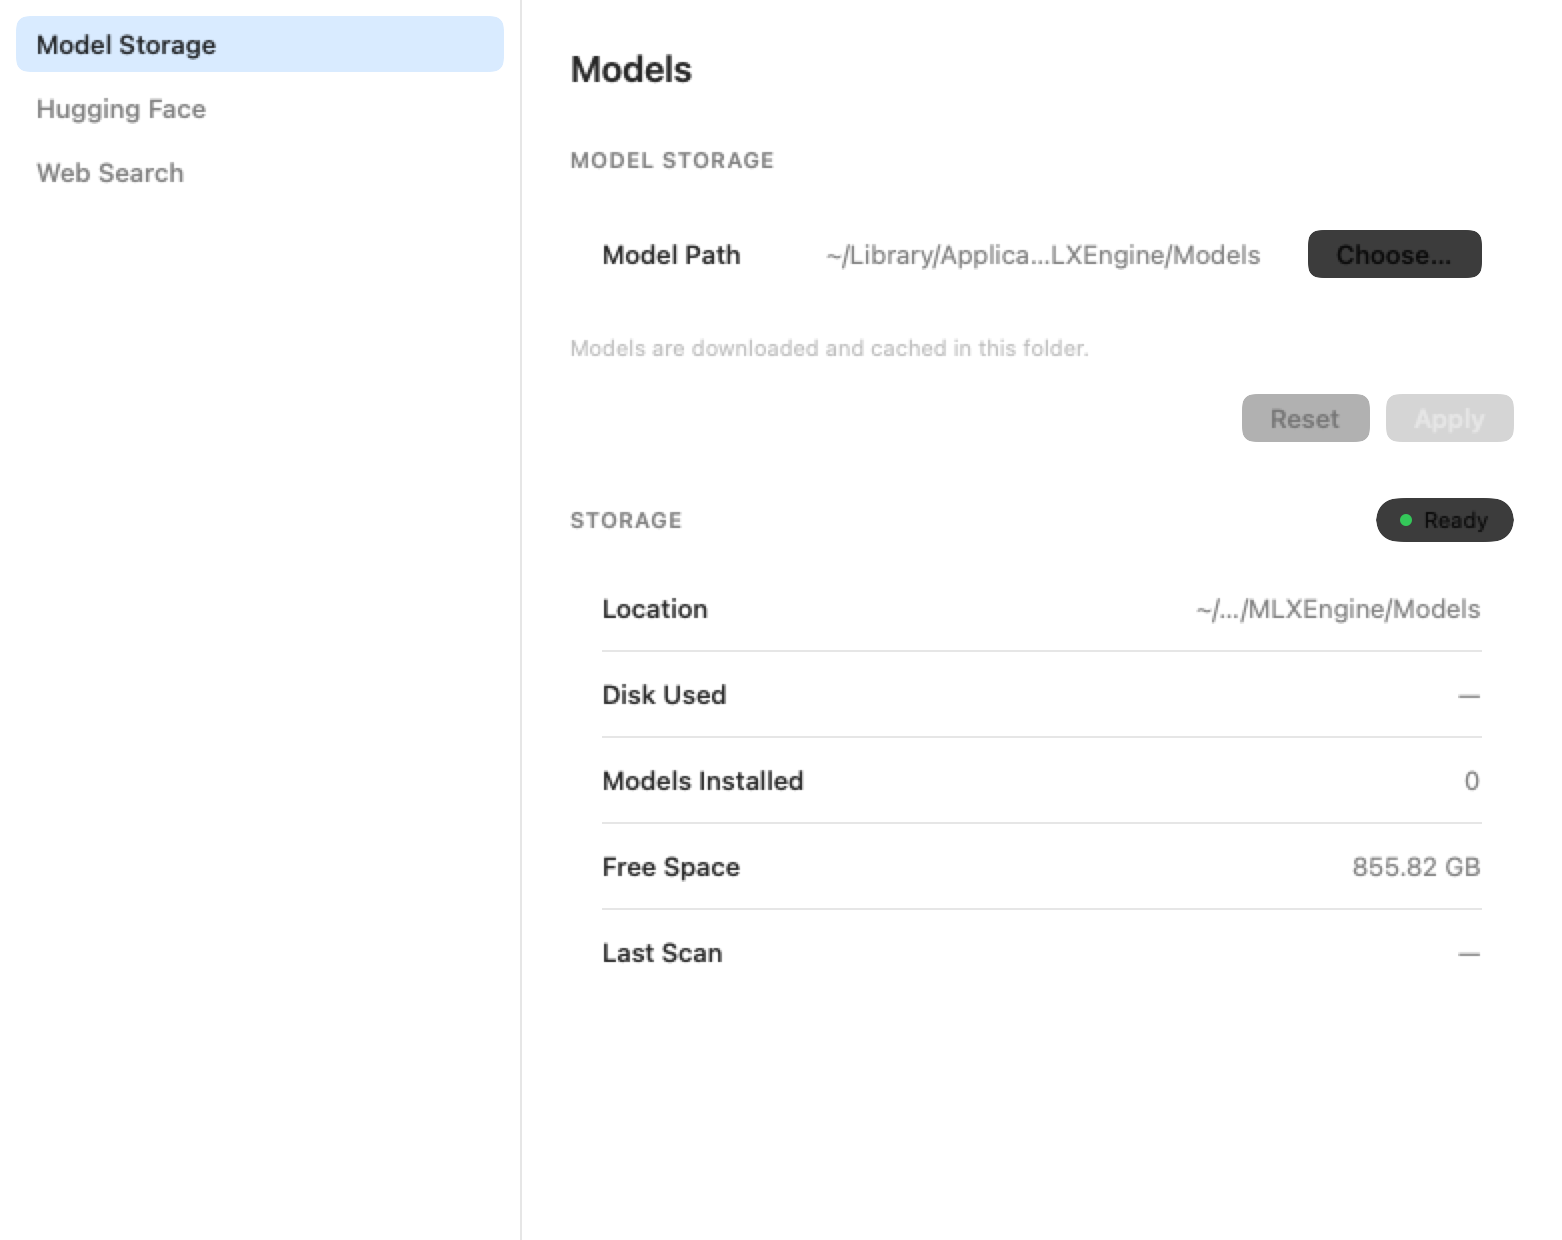
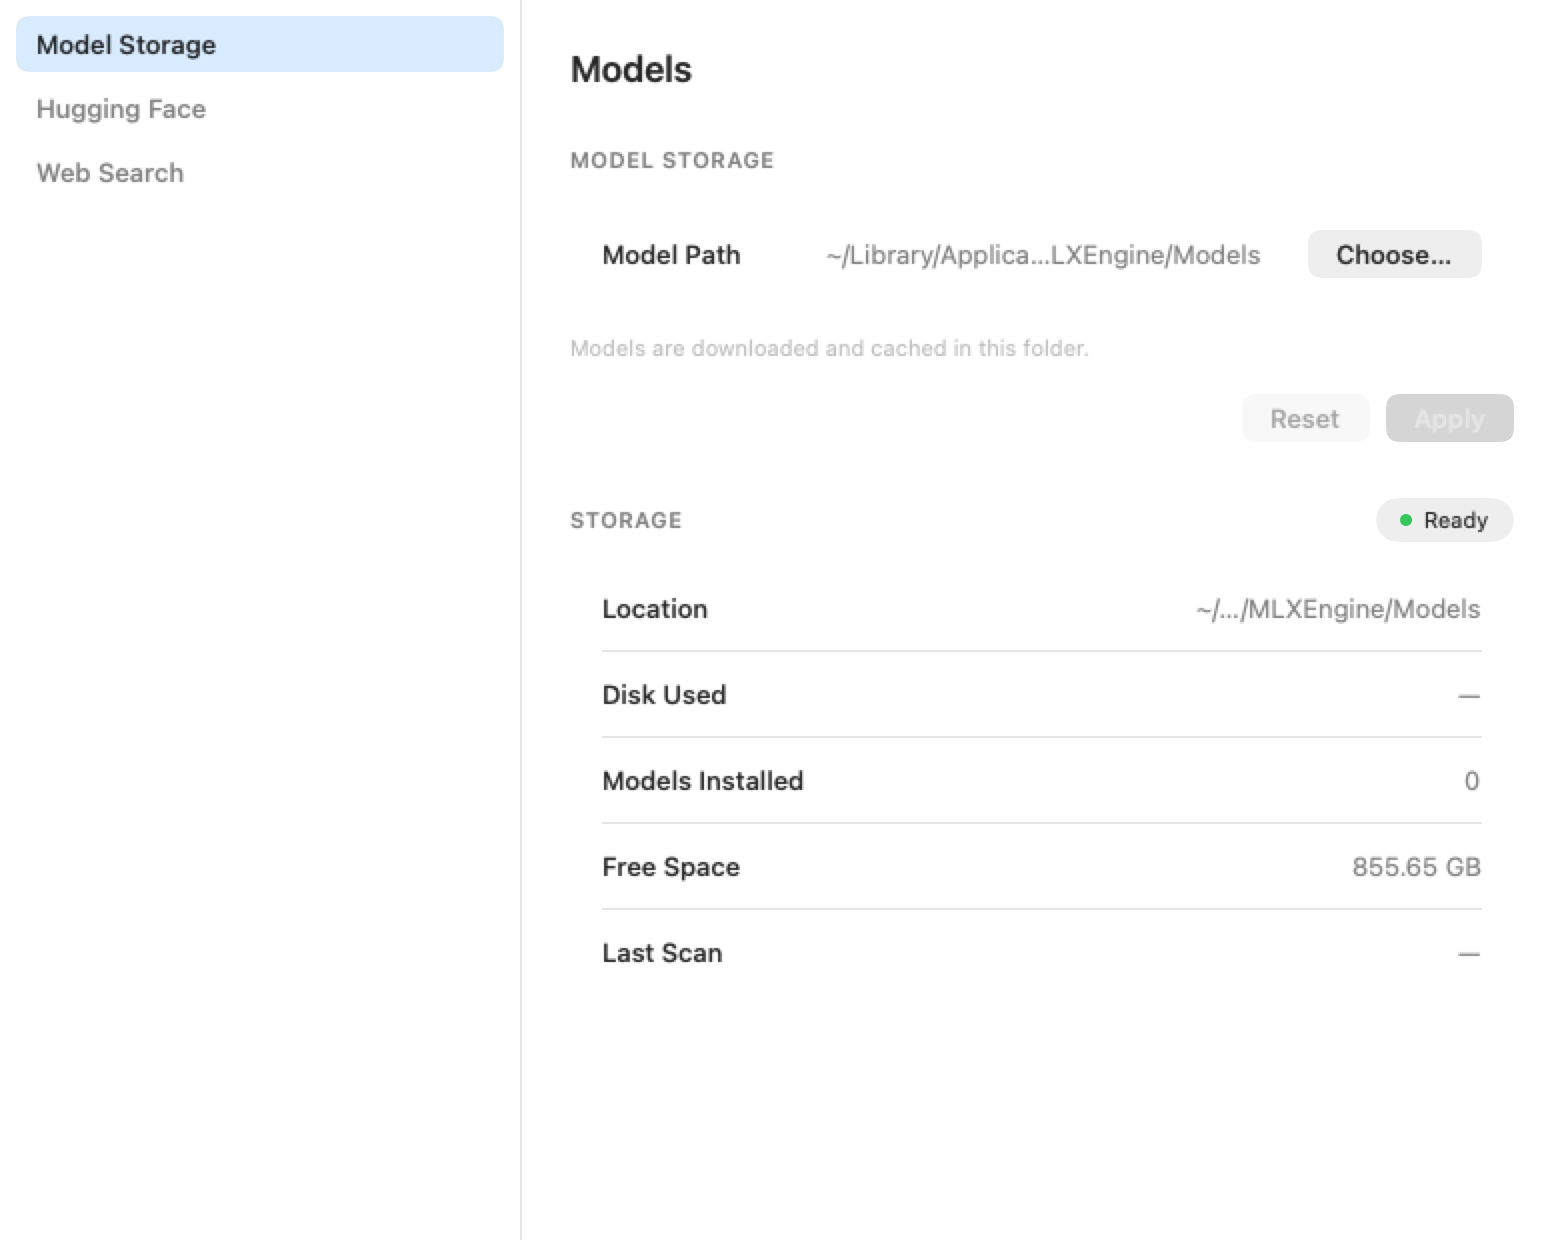
complete the DesignScaffold conformance: fillElevated + panelTitle (0.4.2) — zero literals remain (AB-A-0019)
DesignScaffold 0.4.2 shipped the two tokens gating the tag: fillElevated
(label @ 8% — swatch-chosen against the #3C3C3C it replaces, elevated-by-
construction in both appearances) and panelTitle (18 semibold, added on our
usage evidence). The last five literal references flip:

  2 fill sites (badge capsule, secondary-button fill) -> Tokens.Color.fillElevated
  3 panel headers                                     -> Tokens.Font.panelTitle

MarqueeTokens' pageTitle/bgElevated forwarders now complete too — bgElevated
stays a documented SPLIT symbol (divider uses -> separator, fill uses ->
fillElevated) so migrators pick per site instead of re-creating the conflation.

Only the documented panel-local geometry (panelWidth, settingsMin*) and the
unused brand accentGold remain non-forwarded, by design — the acceptance's
literal criterion is met.

Evidence re-rendered (docs/images/engine-settings-tokens-{light,dark}.png):
light shows a fully coherent adaptive panel — the two dark chips from the
interim render are gone, replaced by the subtle raised fill. Dark remains
the near-parity control.

Contract unchanged (1.37.0) — UI-only. Pin: DesignScaffold from 0.4.2.
Full suite green.

diff --git a/Sources/MLXEngineUI/MarqueeTokens.swift b/Sources/MLXEngineUI/MarqueeTokens.swift
@@ -20,13 +20,8 @@
 //    - `panelWidth` / `settingsMinWidth` / `settingsMinHeight` — settings-window geometry,
 //      a property of these panels rather than the fleet vocabulary.
 //    - `accentGold` — Marquee brand accent, unused in-tree; kept only for API stability.
-//    - `pageTitle` — awaiting `Tokens.Font.panelTitle` (18 semibold; requested with usage
-//      evidence in AB-A-0019: three settings-panel headers at 520pt width, where the 22pt
-//      `screenTitle` would be oversized).
-//    - `bgElevated`'s FILL role — awaiting `Tokens.Color.fillElevated`. Its DIVIDER role
-//      (4 of 6 sites) was split off to `Tokens.Color.separator` in-tree per the AB-A-0019
-//      review; the two fill sites (capsule badge, secondary-button fill) keep this value
-//      until the token ships.
+//    (pageTitle and bgElevated's fill role completed with DesignScaffold 0.4.2's
+//      `panelTitle` + `fillElevated`; bgElevated remains a SPLIT symbol — see its doc.)
 //
 
 import SwiftUI
@@ -41,11 +36,11 @@ public enum MarqueeColor {
     public static let bgSecondary = Tokens.Color.surface
     @available(*, deprecated, message: "Use Tokens.Color.surface (AB-D-0042); no header-specific token exists and nothing in-tree uses this")
     public static let bgHeader = Tokens.Color.surface
-    /// ⚠ Split symbol: divider uses moved to `Tokens.Color.separator` in-tree. This literal
-    /// remains ONLY for the two fill sites (badge capsule, secondary-button fill) until
-    /// DesignScaffold ships `Tokens.Color.fillElevated` (AB-A-0019 Q1 answer: split).
-    public static let bgElevated = Color(.sRGB, red: 0x3C / 255.0, green: 0x3C / 255.0,
-                                         blue: 0x3C / 255.0, opacity: 1.0)
+    /// ⚠ Split symbol (AB-A-0019 Q1): this was BOTH the divider and the raised-control fill.
+    /// Divider uses are `Tokens.Color.separator`; the fill forwards below. Migrators must pick
+    /// per site — forwarding both roles to one token would re-create the conflation.
+    @available(*, deprecated, message: "Divider uses → Tokens.Color.separator; fill uses → Tokens.Color.fillElevated (AB-D-0042)")
+    public static let bgElevated = Tokens.Color.fillElevated
     @available(*, deprecated, message: "Use Tokens.Color.fieldFill (AB-D-0042; note it sits darker in dark mode than the old #2D2D2D — that is adaptation, not regression)")
     public static let bgInput = Tokens.Color.fieldFill
 
@@ -75,8 +70,8 @@ public enum MarqueeColor {
 // MARK: - Typography forwarders
 
 public enum MarqueeFont {
-    /// Awaiting `Tokens.Font.panelTitle` (AB-A-0019) — the one type-ramp addition requested.
-    public static let pageTitle = Font.system(size: 18, weight: .semibold)
+    @available(*, deprecated, message: "Use Tokens.Font.panelTitle (AB-D-0042; added on the AB-A-0019 usage evidence)")
+    public static let pageTitle = Tokens.Font.panelTitle
     @available(*, deprecated, message: "Use Tokens.Font.caption.weight(.semibold) (AB-D-0042)")
     public static let sectionHeader = Tokens.Font.caption.weight(.semibold)
     @available(*, deprecated, message: "Use Tokens.Font.body.weight(.medium) (AB-D-0042)")

diff --git a/Sources/MLXEngineUI/ModelStorageSettingsView.swift b/Sources/MLXEngineUI/ModelStorageSettingsView.swift
@@ -365,7 +365,7 @@ public struct ModelStorageSettingsView: View {
     public var body: some View {
         VStack(alignment: .leading, spacing: 0) {
             Text("Models")
-                .font(MarqueeFont.pageTitle)
+                .font(Tokens.Font.panelTitle)
                 .foregroundStyle(Tokens.Color.label)
                 .padding(.bottom, 28)
 
@@ -561,7 +561,7 @@ public struct ModelStorageSettingsView: View {
         }
         .padding(.horizontal, 12)
         .frame(height: 22)
-        .background(MarqueeColor.bgElevated)
+        .background(Tokens.Color.fillElevated)
         .clipShape(Capsule())
     }
 }
@@ -579,7 +579,7 @@ public struct MarqueeButtonStyle: ButtonStyle {
     public init(_ kind: Kind) { self.kind = kind }
 
     public func makeBody(configuration: Configuration) -> some View {
-        let background = kind == .primary ? Tokens.Color.accent : MarqueeColor.bgElevated
+        let background = kind == .primary ? Tokens.Color.accent : Tokens.Color.fillElevated
         let foreground = kind == .primary ? Color.white : Tokens.Color.label
         return configuration.label
             .font(Tokens.Font.body.weight(.medium))

diff --git a/Package.swift b/Package.swift
@@ -42,8 +42,8 @@ let package = Package(
         // The fleet's design vocabulary (AB-D-0042). UI-target-only (see MLXEngineUI's deps);
         // zero-dependency SwiftUI leaf, MIT — the "one runtime dependency" note above still
         // holds for the engine core: this never reaches MLXToolKit or MLXServeCore.
-        // ≥0.4.1 for Tokens.Color.selectionWash + fieldFill (shipped for AB-A-0019).
-        .package(url: "https://github.com/xocialize/DesignScaffold", from: "0.4.1"),
+        // ≥0.4.2 for selectionWash + fieldFill + fillElevated + Font.panelTitle (shipped for AB-A-0019).
+        .package(url: "https://github.com/xocialize/DesignScaffold", from: "0.4.2"),
     ],
     targets: [
         // Contracts only. The dependency floor every package conforms to. Minimal deps.

diff --git a/Sources/MLXEngineUI/HuggingFaceSettingsView.swift b/Sources/MLXEngineUI/HuggingFaceSettingsView.swift
@@ -145,7 +145,7 @@ public struct HuggingFaceSettingsView: View {
     public var body: some View {
         VStack(alignment: .leading, spacing: 0) {
             Text("Hugging Face")
-                .font(MarqueeFont.pageTitle)
+                .font(Tokens.Font.panelTitle)
                 .foregroundStyle(Tokens.Color.label)
                 .padding(.bottom, 28)
 

diff --git a/Sources/MLXEngineUI/EngineSettingsView.swift b/Sources/MLXEngineUI/EngineSettingsView.swift
@@ -151,7 +151,7 @@ public struct WebSearchSettingsView: View {
     public var body: some View {
         VStack(alignment: .leading, spacing: 0) {
             Text("Web Search")
-                .font(MarqueeFont.pageTitle)
+                .font(Tokens.Font.panelTitle)
                 .foregroundStyle(Tokens.Color.label)
                 .padding(.bottom, 28)
 

diff --git a/README.md b/README.md
@@ -2,7 +2,7 @@
 
 > ## Status — usable, evolving
 >
-> MLXEngine is **published and consumable**: tagged **v0.49.0** (capability contract **1.37.0**),
+> MLXEngine is **published and consumable**: tagged **v0.50.0** (capability contract **1.37.0**),
 > and already serving **47 published model packages** (68 tracked, incl. WIP + research — see
 > [the model registry](docs/model-registry.md)) that back **all 34 of the contract's capabilities** —
 > LLM, TTS, **speech-to-text**, text→image / text→video (+ image/video editing), image→3D, text
